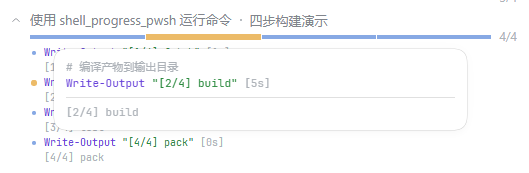
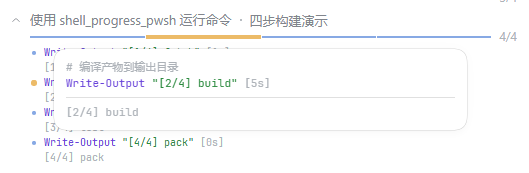
fix(ui): slim the bar band to 2px
The painted band is what the reader sees; the 9px track around it (pointer
target, row height, hover-card anchor) does not move in this change.

The height stays DEVICE-rounded (`round(2 * devicePixelRatio) / ratio`), so
every band still paints the same row count at any scale: 2px at 100% and
150%, three device rows (2.4 CSS px) at 125%, four at 175%. The lifted
state a segment wears under the pointer (and when the step list points at
it) goes from 6px to 4px.

The e2e asserts the painted 2 / lifted 4 heights and the four README
figures are re-shot by the suite.

Changed region(s): [[0.0605, 0.1734, 0.9376, 0.2312]]

diff --git a/src/client/ProgressBar.module.css b/src/client/ProgressBar.module.css
@@ -48,7 +48,7 @@
   flex: 1 1 auto;
   width: 100%;
   /* The BOX is the pointer target, and it is the full height of the track — the same 9px
-   * the segment has always been. What the reader SEES is the 4px inside it (below), so the
+   * the segment has always been. What the reader SEES is the 2px inside it (below), so the
    * bar got thinner without the hover hot zone shrinking by a pixel. */
   height: 100%;
   min-width: 0;
@@ -56,17 +56,17 @@
    * PAINTABLE area in while leaving the element's own box — and therefore the hit area, the
    * outline and the row's height — where it was.
    *
-   * The height is a DEVICE-ROUNDED length from the component (`useBandHeight`): a flat 4px
-   * is 4.4 device pixels at 110% zoom and 4.8 at 120%, so the compositor would round every
-   * band on its own. At 100/125/150/175% this is the 4px it has always been. */
+   * The height is a DEVICE-ROUNDED length from the component (`useBandHeight`): a flat 2px
+   * is 2.2 device pixels at 110% zoom and 2.4 at 120%, so the compositor would round every
+   * band on its own. At 100/125/150/175% this is the 2px it is now. */
   box-sizing: border-box;
-  padding: calc((9px - var(--step-band, 4px)) / 2) 0;
+  padding: calc((9px - var(--step-band, 2px)) / 2) 0;
   border: 0;
-  /* NO `border-radius`. A 4px band with a 2px radius is painted as a rounded-rect PATH, so
-   * every edge of it is antialiased at whatever fractional device position the card happens
-   * to sit at: one card's band paints five full device rows and the next four plus two half
-   * rows — the "two bar weights" a reader reported even after the height became 4px. A
-   * square band is a plain fill and is painted crisp. */
+  /* NO `border-radius`. A band with a radius is painted as a rounded-rect PATH, so every
+   * edge of it is antialiased at whatever fractional device position the card happens to sit
+   * at: one card's band paints the full row count and the next one row less plus two half
+   * rows — the "two bar weights" a reader reported. A square band is a plain fill and is
+   * painted crisp. */
   border-radius: 0;
   background-clip: content-box;
   /* The state palette, not a colour: `--step-state-*` is declared once on the card
@@ -92,15 +92,15 @@
  * bar whose every segment is already a solid block of colour, where a fill or an
  * opacity cue would have nothing to show.
  *
- * It thickens by REDUCING THE PADDING, not by growing its box: 9px of box is 4px of
- * colour at rest and 6px lifted, and those 2px come out of the padding INSIDE the track.
+ * It thickens by REDUCING THE PADDING, not by growing its box: 9px of box is 2px of
+ * colour at rest and 4px lifted, and those 2px come out of the padding INSIDE the track.
  * An earlier version grew the box instead (an 11px segment over a 9px track), which is
  * 1px above and 1px below the track — and the shell's card body is a scroll container
  * that paints a scrollbar for one pixel of it. Nothing outside the track moves here:
  * the box, the hit area and the row's height are all the 9px they were. */
 .segment:hover,
 .segment[data-linked='true'] {
-  padding: calc((9px - var(--step-band-lifted, 6px)) / 2) 0;
+  padding: calc((9px - var(--step-band-lifted, 4px)) / 2) 0;
 }
 
 /* Every state below names the SHARED palette (declared once on the card in
@@ -148,15 +148,15 @@
 }
 
 /* The other bar shape — one fill for a command whose total is unknown. Its height follows
- * the segmented bar's PAINTED height (`.segment`'s content box, 4px), so switching between
- * the two shapes does not change how thick the bar looks. Square corners for the same
- * reason the segments have them (see `.segment`): a rounded 4px band is a path, and a path
+ * the segmented bar's PAINTED height (`.segment`'s content box, 2px today), so switching
+ * between the two shapes does not change how thick the bar looks. Square corners for the
+ * same reason the segments have them (see `.segment`): a rounded band is a path, and a path
  * antialiases its long edges at a fractional position. */
 .solid {
   position: relative;
   flex: 1 1 auto;
   min-width: 48px;
-  height: var(--step-band, 4px);
+  height: var(--step-band, 2px);
   border-radius: 0;
   background-color: var(--dsw-alias-bg-skeleton, currentColor);
   overflow: hidden;

diff --git a/src/client/ProgressBar.tsx b/src/client/ProgressBar.tsx
@@ -205,19 +205,18 @@ function useExactTrack(count: number) {
 /**
  * The painted band's height in CSS px, rounded to a whole DEVICE pixel.
  *
- * A flat 4px is 4.4 device pixels at 110% zoom, 4.8 at 120% and 5.3 at 133% (the ratios a
- * browser produces when the page itself is zoomed, or a display uses custom scaling), and
- * the compositor rounds each band's rectangle on its own — so one card paints four device
- * rows and the next paints five. Rounding the BAND to whole device pixels, and deriving the
- * padding from it, makes every band paint the same row count at any ratio. At the common
- * 100/125/150/175% this is the 4px it has always been.
+ * A flat CSS length is a fractional number of device pixels at some ratios (2px is 2.2 at
+ * 110% zoom, 2.4 at 120%), and the compositor then rounds each band's rectangle on its own —
+ * so one card paints two device rows and the next three. Rounding the BAND to whole device
+ * pixels, and deriving the padding from it, makes every band paint the same row count at any
+ * ratio. At 100/125/150/175% this is the 2px it is now.
  * @returns the resting and lifted band heights, in CSS px.
  */
 function useBandHeight(): { readonly band: number, readonly lifted: number } {
   /** Both band heights for the current device pixel ratio. */
   const measure = (): { band: number, lifted: number } => {
     const ratio = window.devicePixelRatio > 0 ? window.devicePixelRatio : 1
-    return { band: Math.round(4 * ratio) / ratio, lifted: Math.round(6 * ratio) / ratio }
+    return { band: Math.round(2 * ratio) / ratio, lifted: Math.round(4 * ratio) / ratio }
   }
   const [heights, setHeights] = useState(measure)
   useEffect(() => {

diff --git a/e2e/card.spec.ts b/e2e/card.spec.ts
@@ -1016,13 +1016,13 @@ test.describe('the shell_progress card in a real shell', () => {
     await page.waitForTimeout(120)
     const lifted = await segmentHeights()
     console.log(`[e2e] segment heights flat ${JSON.stringify(flat)} -> hover ${JSON.stringify(lifted)}`)
-    // The COLOUR is what was asked to shrink: 4px at rest, 6px lifted, where the bar used
+    // The COLOUR is what was asked to shrink: 2px at rest, 4px lifted, where the bar used
     // to paint 9px and 13px. The clip is how the paint stays inside the padding box, and
     // the CSS half of the device-rounding is the `--step-band` variable. The BAND is a
-    // square fill: a rounded 4px rect is painted as a path, and a path antialiases its long
+    // square fill: a rounded rect is painted as a path, and a path antialiases its long
     // edges at a fractional device position — the "two bar weights" a reader reported.
-    expect(flat.painted, 'the resting bar does not paint the 4px it is supposed to').toBe(4)
-    expect(lifted.painted, 'the lifted bar does not paint the 6px it is supposed to').toBe(6)
+    expect(flat.painted, 'the resting bar does not paint the 2px it is supposed to').toBe(2)
+    expect(lifted.painted, 'the lifted bar does not paint the 4px it is supposed to').toBe(4)
     expect(flat.radius, 'the band is a rounded path again, so its edges will antialias').toBe('0px')
     // AND THE HOT ZONE DID NOT SHRINK: the box is still the track's 9px, so every pixel
     // of the pointer target the bar had before it still belongs to the segment.
